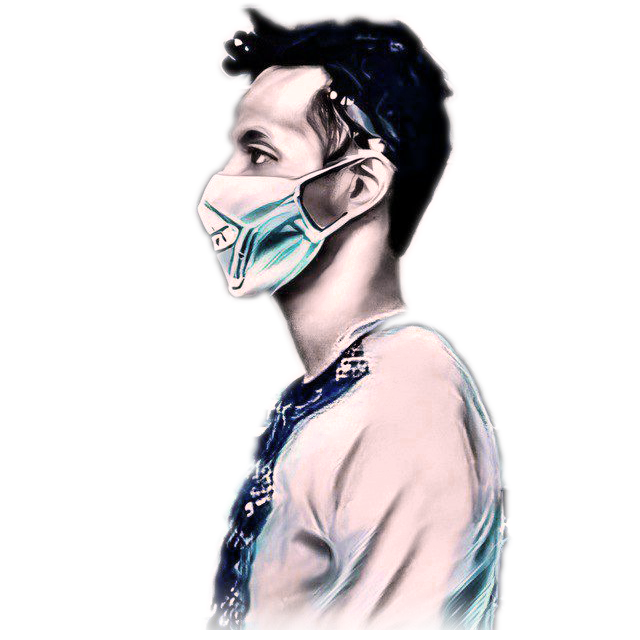
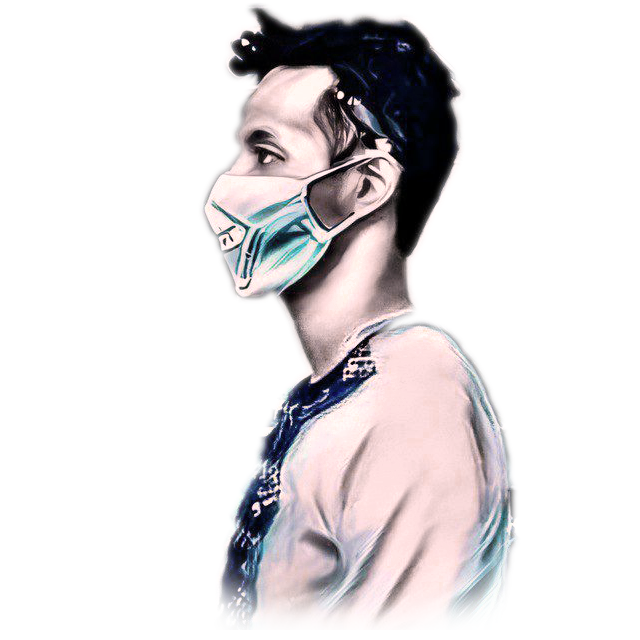
about

Changed region(s): [[0.2812, 0.0, 0.8125, 1.0]]

diff --git a/index.html b/index.html
@@ -329,11 +329,11 @@ main{display:block;}
   50%{border-radius:58% 42% 35% 65% / 55% 60% 40% 45%;}
 }
 
-.profile-photo{position:relative;z-index:2;width:min(380px,86%);aspect-ratio:var(--photo-ratio, 4/5);animation:float 6s ease-in-out infinite;}
+.profile-photo{position:relative;z-index:2;width:min(380px,86%);aspect-ratio:var(--photo-ratio, 4/5);animation:float 10s ease-in-out infinite;}
 .photo-slide{
   position:absolute;inset:0;width:100%;height:100%;object-fit:contain;object-position:center top;
   display:block;filter:drop-shadow(0 30px 50px rgba(0,0,0,.4));
-  opacity:0;transition:opacity 1.4s ease;pointer-events:none;
+  opacity:0;transition:opacity 1.6s ease;pointer-events:none;
 }
 .photo-slide.active{opacity:1;}
 
@@ -729,8 +729,8 @@ main{display:block;}
         <div class="profile-photo" id="profilePhoto">
           <img class="photo-slide active" src="assets/images/Profile.png" alt="Yohannes Reta" loading="eager">
           <img class="photo-slide" src="assets/images/Profile1.png" alt="Yohannes Reta" loading="lazy">
-          <img class="photo-slide" src="assets/images/Profile3.png" alt="Yohannes Reta" loading="lazy">
-          <img class="photo-slide" src="assets/images/Profile4.png" alt="Yohannes Reta" loading="lazy"> 
+          <img class="photo-slide" src="assets/images/profile2.png" alt="Yohannes Reta" loading="lazy">
+          <!-- <img class="photo-slide" src="assets/images/profile3.png" alt="Yohannes Reta" loading="lazy">  -->
         </div>
 
         <div class="visual-footer">
